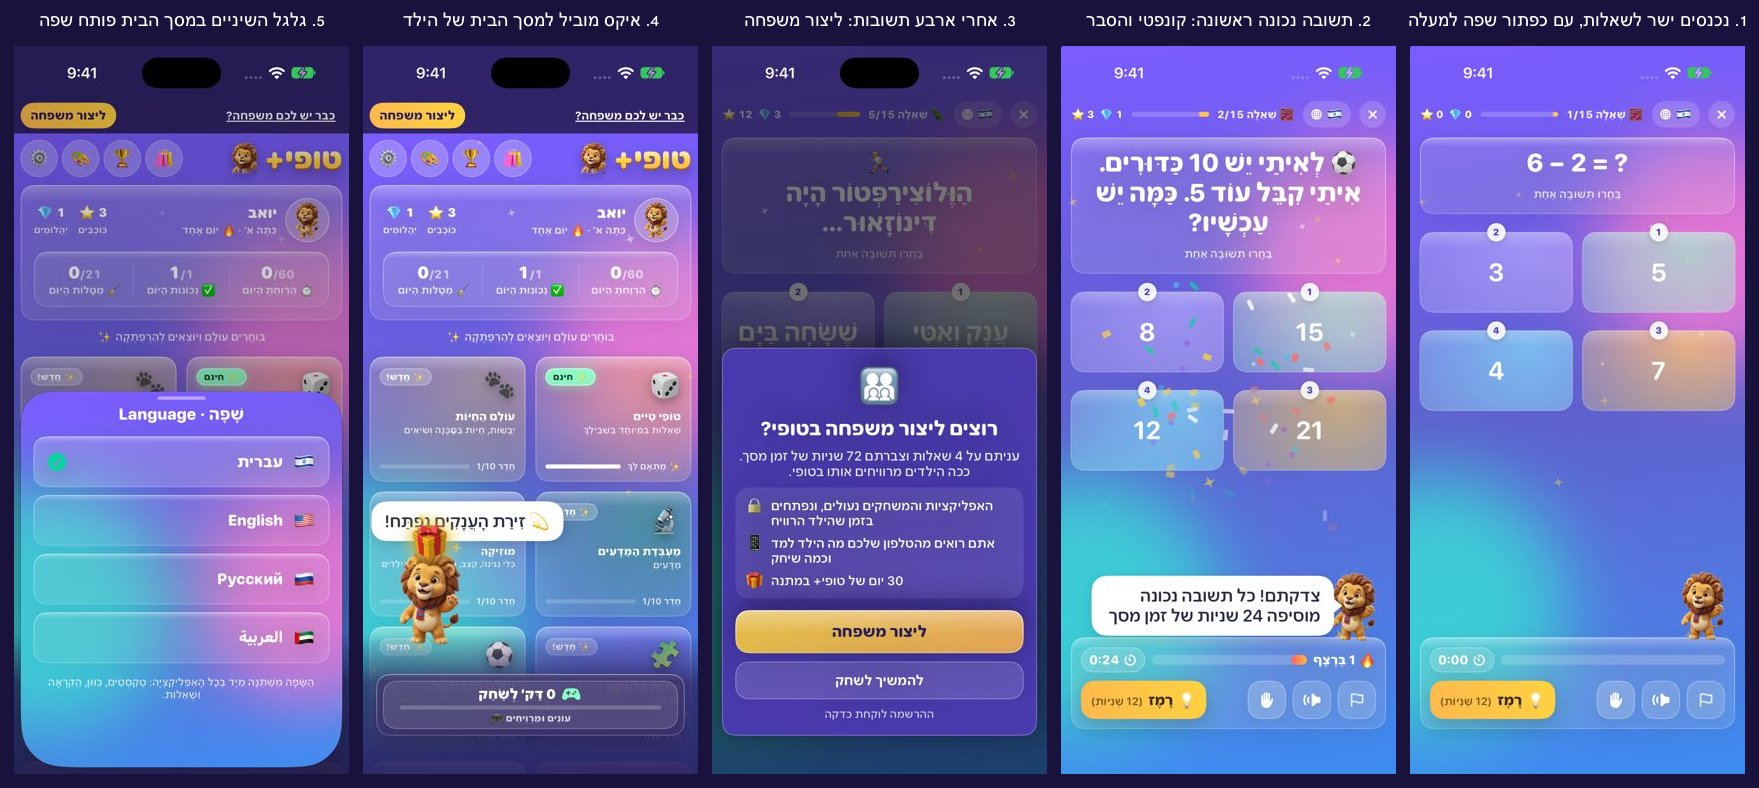
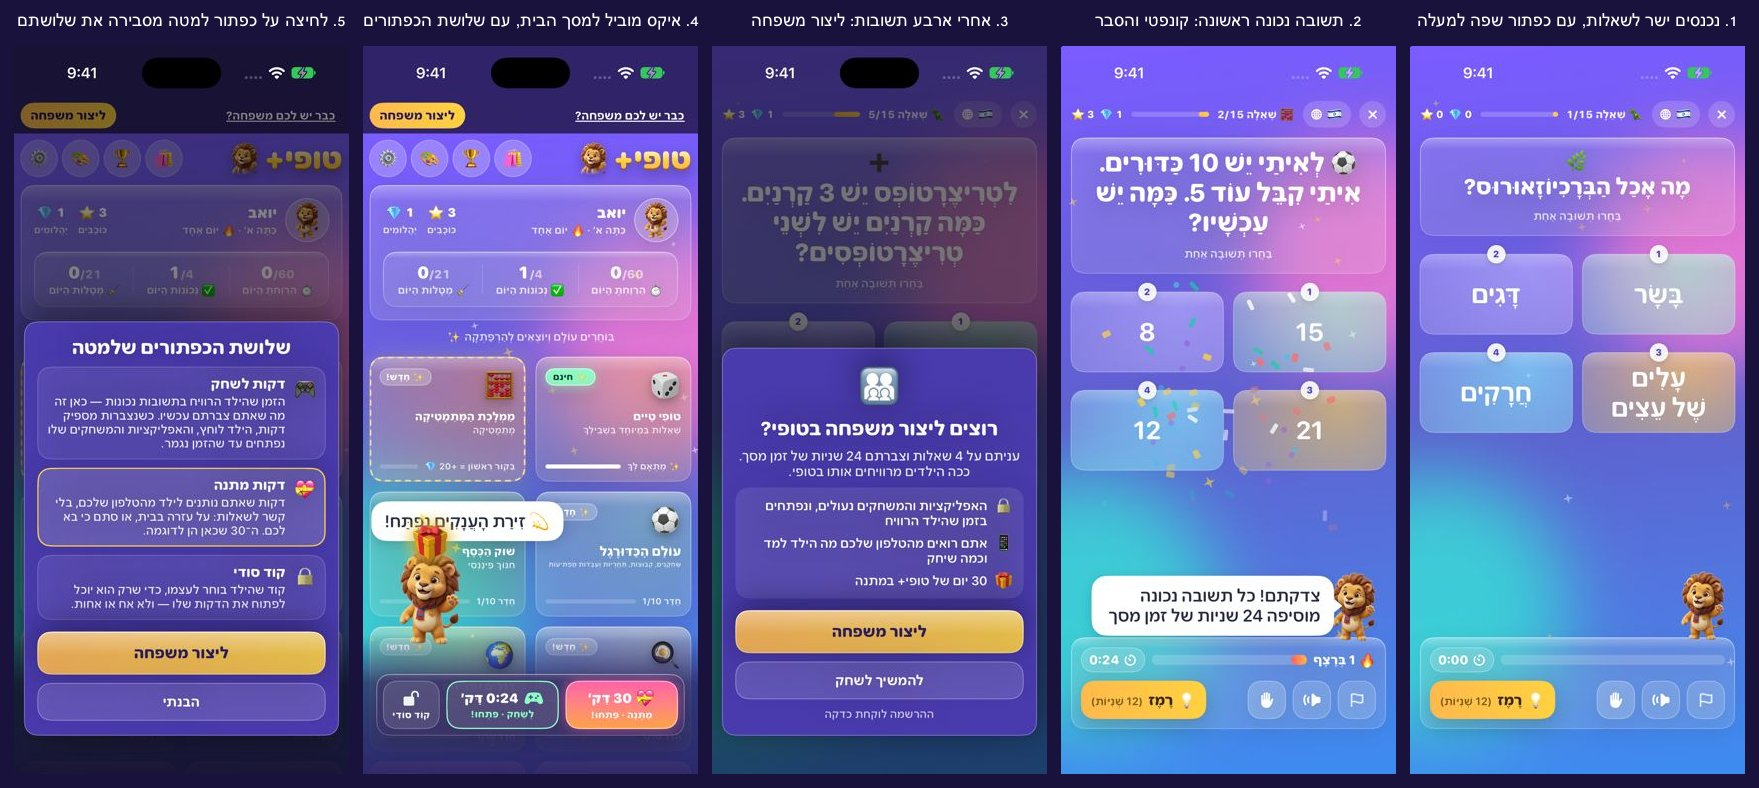
🎬 ההדגמה, מסך הבית של הילד (רני): הדקות האמיתיות שההורה צבר · 30 דקות מתנה לדוגמה · לחיצה על כל אחד משלושת הכפתורים למטה מסבירה מה הם · ⚙ פותח שפה · החלון ״ליצור משפחה״ מיושר לימין
- הסרגל התחתון בהדגמה: 💝 30 דק׳ (מוצג בלבד, לא נזקף לאף אחד) · 🎮 מה שנצבר עד השנייה · 🔒 קוד סודי.
  לחיצה לא פותחת כלום: נפתח הסבר על שלושתם, זה שנלחץ מסומן, עם ״ליצור משפחה״.
- גלגל השיניים במסך הבית של ההדגמה פותח את בחירת השפה (במקום ״נפתח אחרי ההרשמה״).
- החלון שמעל החידון קיבל את כיוון האפליקציה (שלוש הנקודות ישבו בצד שמאל).

diff --git a/ChildTime/Views/DemoTourViews.swift b/ChildTime/Views/DemoTourViews.swift
@@ -223,7 +223,17 @@ struct DemoTourRoot: View {
                     .transition(.opacity)
             }
         }
+        .overlay {
+            if let key = tour.explaining {
+                DemoTourKeysSheet(tapped: key,
+                                  earnedSeconds: ProgressStore.shared.openableSeconds(gift: false),
+                                  onSignUp: { Haptic.medium(); tour.end(signUp: true) },
+                                  onClose: { tour.explaining = nil })
+                    .transition(.opacity)
+            }
+        }
         .animation(.easeOut(duration: 0.2), value: tour.invite)
+        .animation(.easeOut(duration: 0.2), value: tour.explaining)
         .animation(.easeOut(duration: 0.2), value: tour.kidID)
         .onAppear { tour.restoreKidHomeIfNeeded(); tour.watchLanguage() }
         // ⚙ on the child's home opens this, for now (see `openLanguages`).
@@ -237,6 +247,87 @@ struct DemoTourRoot: View {
             let open = ProgressStore.shared.isUnlocked || ProgressStore.shared.isOpeningWindow
             if open != windowShowing { windowShowing = open }
         }
+    }
+}
+
+/// What the three keys under the child's home are (Rani, 2026-10-13): in the
+/// tour a tap on any of them opens nothing — it explains all three, the tapped
+/// one marked. To the parent: no niqqud.
+struct DemoTourKeysSheet: View {
+    var tapped: DemoTour.Key = .minutes
+    /// What the parent has really earned so far, to the second.
+    var earnedSeconds = 0
+    var onSignUp: () -> Void = {}
+    var onClose: () -> Void = {}
+
+    var body: some View {
+        ZStack(alignment: .bottom) {
+            Color.black.opacity(0.5)
+                .ignoresSafeArea()
+                .onTapGesture { onClose() }
+            VStack(spacing: 10) {
+                Text(tr("שלושת הכפתורים שלמטה"))
+                    .font(.system(size: 22, weight: .heavy, design: .rounded))
+                    .foregroundStyle(.white)
+                    .multilineTextAlignment(.center)
+                row(.minutes, "🎮", tr("דקות לשחק"),
+                    earnedSeconds > 0
+                    ? tr("הזמן שהילד הרוויח בתשובות נכונות — כאן זה מה שאתם צברתם עכשיו. כשנצברות מספיק דקות, הילד לוחץ, והאפליקציות והמשחקים שלו נפתחים עד שהזמן נגמר.")
+                    : tr("הזמן שהילד הרוויח בתשובות נכונות. כשנצברות מספיק דקות, הילד לוחץ, והאפליקציות והמשחקים שלו נפתחים עד שהזמן נגמר."))
+                row(.gift, "💝", tr("דקות מתנה"),
+                    tr("דקות שאתם נותנים לילד מהטלפון שלכם, בלי קשר לשאלות: על עזרה בבית, או סתם כי בא לכם. ה־30 שכאן הן לדוגמה."))
+                row(.code, "🔒", tr("קוד סודי"),
+                    tr("קוד שהילד בוחר לעצמו, כדי שרק הוא יוכל לפתוח את הדקות שלו — ולא אח או אחות."))
+                Button(action: onSignUp) {
+                    Text(tr("ליצור משפחה"))
+                        .font(.system(size: 18, weight: .heavy, design: .rounded))
+                        .foregroundStyle(Color(hex: "2A1E5C"))
+                        .frame(maxWidth: .infinity)
+                        .padding(.vertical, 15)
+                        .glassFill(AppGradient.gold, radius: 16)
+                }
+                .buttonStyle(.juicy)
+                .padding(.top, 4)
+                Button(action: onClose) {
+                    Text(tr("הבנתי"))
+                        .font(.system(size: 16, weight: .bold, design: .rounded))
+                        .foregroundStyle(.white)
+                        .frame(maxWidth: .infinity)
+                        .padding(.vertical, 13)
+                        .background(RoundedRectangle(cornerRadius: 16, style: .continuous).fill(.white.opacity(0.14)))
+                        .overlay(RoundedRectangle(cornerRadius: 16, style: .continuous).strokeBorder(.white.opacity(0.3), lineWidth: 1))
+                }
+                .buttonStyle(.juicy)
+            }
+            .padding(.horizontal, 16)
+            .padding(.vertical, 18)
+            .frame(maxWidth: 440)
+            .background(RoundedRectangle(cornerRadius: 16, style: .continuous).fill(Color(hex: "4A3AB0").opacity(0.98)))
+            .overlay(RoundedRectangle(cornerRadius: 16, style: .continuous).strokeBorder(.white.opacity(0.3), lineWidth: 1))
+            .shadow(color: .black.opacity(0.45), radius: 20, y: -10)
+            .padding(.horizontal, 12)
+            .padding(.bottom, 12)
+        }
+    }
+
+    private func row(_ key: DemoTour.Key, _ emoji: String, _ title: String, _ text: String) -> some View {
+        HStack(alignment: .top, spacing: 10) {
+            Text(emoji).font(.system(size: 24))
+            VStack(alignment: .leading, spacing: 3) {
+                Text(title)
+                    .font(.system(size: 16, weight: .heavy, design: .rounded))
+                    .foregroundStyle(.white)
+                Text(text)
+                    .font(.system(size: 14, weight: .medium, design: .rounded))
+                    .foregroundStyle(.white.opacity(0.9))
+                    .fixedSize(horizontal: false, vertical: true)
+            }
+            .frame(maxWidth: .infinity, alignment: .leading)
+        }
+        .padding(11)
+        .background(RoundedRectangle(cornerRadius: 16, style: .continuous).fill(.white.opacity(key == tapped ? 0.18 : 0.08)))
+        .overlay(RoundedRectangle(cornerRadius: 16, style: .continuous)
+            .strokeBorder(key == tapped ? Color(hex: "FFD23F") : .white.opacity(0.18), lineWidth: key == tapped ? 1.5 : 1))
     }
 }
 
@@ -264,7 +355,6 @@ struct FirstRunQuiz: View {
                 else if !tour.isRebuildingForLanguage { tour.leaveQuizToKidHome() }
             }) {
                 QuestionRunnerView(mode: .smartFeed, purpose: .earnTime)
-                    .environment(\.layoutDirection, .app)   // a cover can arrive left-to-right
                     .overlay {
                         if tour.askToCreate {
                             FirstRunAsk(answered: tour.answered,
@@ -275,6 +365,9 @@ struct FirstRunQuiz: View {
                         }
                     }
                     .animation(.easeOut(duration: 0.22), value: tour.askToCreate)
+                    // A cover can arrive left-to-right — and the question over
+                    // the quiz with it (its three points sat on the left: Rani).
+                    .environment(\.layoutDirection, .app)
             }
     }
 }

diff --git a/ChildTime/Views/WorldMapView.swift b/ChildTime/Views/WorldMapView.swift
@@ -2244,12 +2244,14 @@ struct WorldMapView: View {
     /// today, nothing yet.
     private var kidToolbar: some View {
         HStack(spacing: 8) {
-            if (giftOpenableSeconds > 0 || progress.hasPausedManualTime) && !progress.isUnlocked {
+            // 🎬 In the tour all three keys are always there, and a tap on
+            // any of them only explains what the three are (Rani, 2026-10-13).
+            if DemoTour.isOn || ((giftOpenableSeconds > 0 || progress.hasPausedManualTime) && !progress.isUnlocked) {
                 giftKey
             }
-            minutesKey
+            if DemoTour.isOn { demoTourMinutesKey } else { minutesKey }
             if let p = profiles.active,
-               p.hasPlayPIN || progress.pendingMinutes > 0 || progress.hasPausedManualTime {
+               DemoTour.isOn || p.hasPlayPIN || progress.pendingMinutes > 0 || progress.hasPausedManualTime {
                 codeKey(p)
             }
         }
@@ -2272,8 +2274,11 @@ struct WorldMapView: View {
     /// 💝 "10 דק׳ · מתנה · פתחו!" — opens the parents' gift (and any frozen leftover).
     private var giftKey: some View {
         let frozen = progress.pausedManualMinutes
-        let title = giftOpenableSeconds > 0 ? tr("\(Self.timeLabel(giftOpenableSeconds)) דַּקּ׳") : "❄ \(frozen)"
+        // 🎬 The tour's gift is a made-up 30 minutes: shown, never credited.
+        let title = DemoTour.isOn ? tr("\(Self.timeLabel(DemoTour.giftMinutesShown * 60)) דַּקּ׳")
+            : giftOpenableSeconds > 0 ? tr("\(Self.timeLabel(giftOpenableSeconds)) דַּקּ׳") : "❄ \(frozen)"
         return Button {
+            if DemoTour.explain(.gift) { Haptic.light(); return }
             requestUnlock { redeemGift() }
         } label: {
             VStack(spacing: 3) {
@@ -2299,6 +2304,32 @@ struct WorldMapView: View {
         .disabled(isOpening)
         .frame(maxWidth: .infinity)   // the same width as the minutes beside it (Rani)
         .accessibilityLabel(giftButtonTitle)
+    }
+
+    /// 🎬 The tour's minutes key: what the parent has really earned so far, to
+    /// the second, in the shape of minutes that are ready to open — and a tap
+    /// explains instead of opening.
+    private var demoTourMinutesKey: some View {
+        Button {
+            Haptic.light()
+            DemoTour.explain(.minutes)
+        } label: {
+            keyBox {
+                VStack(spacing: 3) {
+                    HStack(spacing: 5) {
+                        Image(systemName: "gamecontroller.fill").font(.system(size: 15, weight: .bold)).foregroundStyle(Color(hex: "8CFFC4"))
+                        Text(tr("\(Self.timeLabel(progress.openableSeconds(gift: false))) דַּקּ׳"))
+                            .font(.system(size: 16, weight: .black, design: .rounded))
+                            .lineLimit(1).minimumScaleFactor(0.7)
+                    }
+                    Text(tr("לְשַׂחֵק · פִּתְחוּ!")).font(.system(size: 11, weight: .heavy, design: .rounded))
+                        .foregroundStyle(Color(hex: "8CFFC4"))
+                }
+            }
+            .overlay(RoundedRectangle(cornerRadius: 16, style: .continuous).strokeBorder(Color(hex: "8CFFC4"), lineWidth: 1.5))
+        }
+        .buttonStyle(.juicy)
+        .frame(minWidth: isCompact || display.hasBarStrip ? 0 : 150)
     }
 
     /// 🎮 The play minutes — the middle key, widest. Tappable only when they open.
@@ -2385,6 +2416,7 @@ struct WorldMapView: View {
     private func codeKey(_ p: Profile) -> some View {
         Button {
             Haptic.light()
+            if DemoTour.explain(.code) { return }
             playPINSheet = p.hasPlayPIN ? .manage : .setNew
         } label: {
             keyBox {

diff --git a/ChildTime/Models/DemoTour.swift b/ChildTime/Models/DemoTour.swift
@@ -167,6 +167,27 @@ final class DemoTour: ObservableObject {
         return true
     }
 
+    // MARK: - The three keys under the child's home
+
+    /// Rani, 2026-10-13: in the tour the bar under the child's home shows what
+    /// the parent has really earned, a made-up gift of 30 minutes beside it,
+    /// and the child's code — and a tap on any of them opens nothing: it
+    /// explains what each of the three is.
+    enum Key: String, Identifiable {
+        case minutes, gift, code
+        var id: String { rawValue }
+    }
+    @Published var explaining: Key?
+    /// "תרשום שם סתם 30 דקות" — shown, never credited to anyone.
+    static let giftMinutesShown = 30
+    /// True in the tour (and the explanation opens): the caller stops there.
+    @discardableResult
+    static func explain(_ key: Key) -> Bool {
+        guard isOn else { return false }
+        shared.explaining = key
+        return true
+    }
+
     private var languageWatch: AnyCancellable?
     /// Heard here and not by a view: the views are the very thing a language
     /// change tears down.
@@ -324,6 +345,7 @@ final class DemoTour: ObservableObject {
         invite = nil
         askToCreate = false
         showLanguages = false
+        explaining = nil
         kidID = nil
         answered = 0
         explained = []
